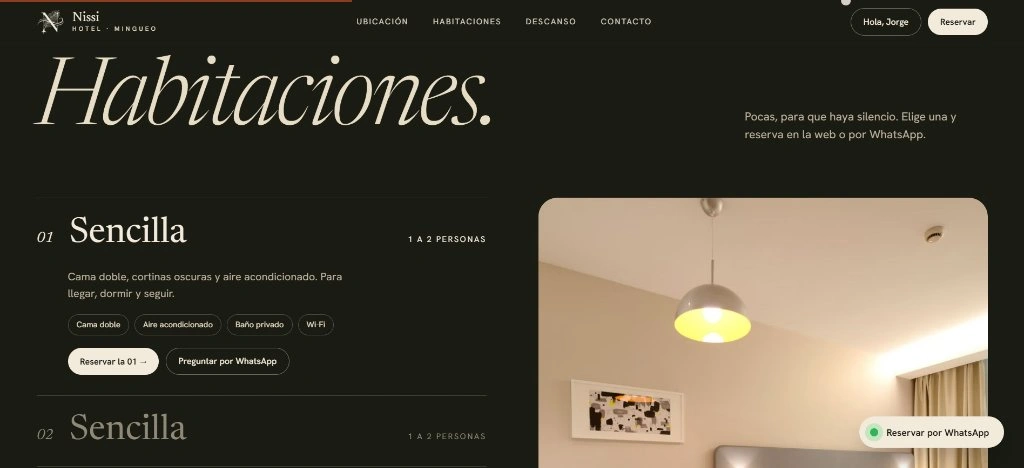
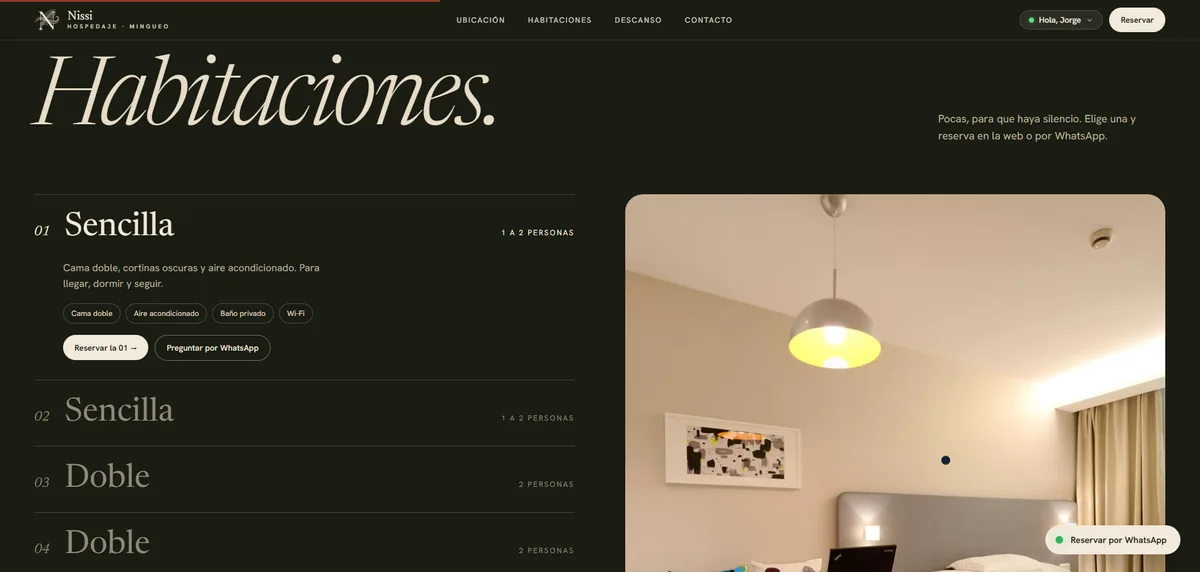
actualizacion de proyecto hotel nissi a hospedaje nissi

diff --git a/logica/Datosportafolio.js b/logica/Datosportafolio.js
@@ -7,7 +7,7 @@
     Habilidades: { Texto: 'habilidades', Clase: 'Palabragigante Tinta', Tamano: 'min(12.4vw, 190px)' },
     Experiencia: { Texto: 'experiencia', Clase: 'Palabragigante Tinta', Tamano: 'min(12.4vw, 190px)' },
     Conoceme: { Texto: 'conóceme', Clase: 'Palabragigante Tinta', Tamano: 'min(14.4vw, 220px)' },
-    Nissi: { Texto: 'Hotel Nissi', Clase: 'Palabragigante Tinta', Tamano: 'min(14.8vw, 218px)' },
+    Nissi: { Texto: 'Nissi', Clase: 'Palabragigante Tinta', Tamano: 'min(21.2vw, 240px)' },
     Mitecho: { Texto: 'MiTecho', Clase: 'Palabragigante Tinta', Tamano: 'min(17.5vw, 228px)' },
     Sonica: { Texto: 'Sónica', Clase: 'Palabragigante Tinta', Tamano: 'min(21.2vw, 240px)' },
     Neon: { Texto: 'Neon Jump', Clase: 'Palabragigante Tinta', Tamano: 'min(14.1vw, 216px)' },
@@ -16,7 +16,7 @@
   };
 
   var Tarjetas = [
-    { Proyecto: 'Nissi', Titulo: 'Hotel Nissi', Tipo: 'Sitio web y Cotizador', Imagen: 'imagenes/icono-nissi.webp' },
+    { Proyecto: 'Nissi', Titulo: 'Hospedaje Nissi', Tipo: 'Sitio web y Cotizador', Imagen: 'imagenes/icono-nissi.webp' },
     { Proyecto: 'Mitecho', Titulo: 'MiTecho', Tipo: 'App Financiera de Vivienda', Imagen: 'imagenes/icono-mitecho.webp' },
     { Proyecto: 'Neon', Titulo: 'Neon Jump', Tipo: 'Videojuego Móvil', Imagen: 'imagenes/icono-neon.webp' },
     { Proyecto: 'Sonica', Titulo: 'Sónica', Tipo: 'Podcasts con Inteligencia Artificial', Imagen: 'imagenes/icono-sonica.webp' },
@@ -61,17 +61,18 @@
   var Detalles = {
     Nissi: {
       Id: 'Nissi',
-      Titulo: 'Hotel Nissi',
-      Tamano: 'min(14.8vw, 218px)',
+      Titulo: 'Nissi',
+      Antetitulo: 'Hospedaje',
+      Tamano: 'min(21.2vw, 240px)',
       Idtitulo: 'Titulonissi',
       Esimagen: true,
       Imagen: 'imagenes/icono-nissi.webp',
-      Alticono: 'Ícono de Hotel Nissi',
+      Alticono: 'Ícono de Hospedaje Nissi',
       Dato: 'Web y Gestión Hotelera · La Guajira',
-      Subtitulo: 'Sitio web oficial y sistema de reservas del Hotel Nissi en Mingueo, La Guajira',
-      Etiquetapuntos: 'Cómo funciona y tecnologías de Hotel Nissi',
+      Subtitulo: 'Sitio web oficial y sistema de reservas del Hospedaje Nissi en Mingueo, La Guajira',
+      Etiquetapuntos: 'Cómo funciona y tecnologías de Hospedaje Nissi',
       Puntos: [
-        { Num: '·', Texto: 'Construí la interfaz con JavaScript moderno y estilos visuales adaptables a cualquier pantalla, integrando etiquetas estructuradas de Schema para que buscadores como Google muestren el hotel en los primeros resultados.' },
+        { Num: '·', Texto: 'Construí la interfaz con JavaScript moderno y estilos visuales adaptables a cualquier pantalla, integrando etiquetas estructuradas de Schema para que buscadores como Google muestren el hospedaje en los primeros resultados.' },
         { Num: '·', Texto: 'Conecté la web con la API oficial de WhatsApp para confirmar solicitudes al instante y sumé la inteligencia artificial de Gemini para responder dudas frecuentes de los viajeros de forma automática.' },
         { Num: '·', Texto: 'Creé un servidor ligero con Google Apps Script que usa Google Sheets como base de datos en vivo, permitiendo al recepcionista ingresar con una clave segura, bloquear habitaciones ocupadas y enviar un balance diario al correo del administrador.' }
       ],
@@ -80,10 +81,10 @@
         { Clave: 'Stack', Valor: 'JavaScript · Apps Script · Google Sheets · Gemini AI · WhatsApp API' },
         { Clave: 'Alcance', Valor: 'Cotizador en vivo y panel de recepción' }
       ],
-      Accion: { Url: 'https://hotel-nissi-mingueo.web.app', Texto: 'Ir a Hotel Nissi' },
+      Accion: { Url: 'https://hospedaje-nissi-mingueo.web.app/index.html', Texto: 'Ir a Hospedaje Nissi' },
       Dispositivo: 'portal',
       Capturas: [
-        { Src: 'imagenes/nissi-1.webp', Alt: 'Portada principal de Hotel Nissi con cotizador de noches' },
+        { Src: 'imagenes/nissi-1.webp', Alt: 'Portada principal de Hospedaje Nissi con cotizador de noches' },
         { Src: 'imagenes/nissi-2.webp', Alt: 'Catálogo y detalle de habitaciones' },
         { Src: 'imagenes/nissi-3.webp', Alt: 'Ubicación sobre la Troncal del Caribe' },
         { Src: 'imagenes/nissi-4.webp', Alt: 'Infraestructura y servicios de descanso' },
@@ -126,7 +127,7 @@
         { Src: 'imagenes/mitecho-5.webp', Alt: 'Plan de liberación de cupo crediticio apagando deudas en MiTecho' },
         { Src: 'imagenes/mitecho-6.webp', Alt: 'Catálogo de proyectos inmobiliarios aliados por municipio en MiTecho' }
       ],
-      Anterior: { Proyecto: 'Nissi', Nombre: 'Hotel Nissi' },
+      Anterior: { Proyecto: 'Nissi', Nombre: 'Hospedaje Nissi' },
       Siguiente: { Proyecto: 'Neon', Nombre: 'Neon Jump' }
     },
     Neon: {
@@ -252,7 +253,7 @@
         { Src: 'imagenes/Khronosinicio.webp', Alt: 'Pantalla de inicio de Khronos con el lema Domina tu tiempo, conquista tus proyectos, una figura frente a un reloj de arena iluminado y el formulario de acceso' }
       ],
       Anterior: { Proyecto: 'Moderador', Nombre: 'Sónica Moderador' },
-      Siguiente: { Proyecto: 'Nissi', Nombre: 'Hotel Nissi' }
+      Siguiente: { Proyecto: 'Nissi', Nombre: 'Hospedaje Nissi' }
     }
   };
 

diff --git a/index.html b/index.html
@@ -82,7 +82,7 @@
 <svg class="Esferasvg" viewBox="0 0 400 400" focusable="false"><defs><path id="Rielesfera" d="M200,360 A160,160 0 1,1 200,40 A160,160 0 1,1 200,360"></path></defs><g class="Esferagiro"><circle class="Marcasmenores" cx="200" cy="200" r="192" pathLength="360" transform="rotate(-90 200 200)"></circle><circle class="Marcasmayores" cx="200" cy="200" r="190" pathLength="360" transform="rotate(-90 200 200)"></circle><circle class="Esferaaro" cx="200" cy="200" r="136"></circle></g><text class="Esferatitulo"><textPath href="#Rielesfera" startOffset="50%" text-anchor="middle">Proyectos</textPath></text><path class="Esferaaguja" d="M200,1V21"></path></svg>
 </div>
 <ul class="Carteles" aria-label="Proyectos" aria-roledescription="rueda de proyectos" data-ref="Cartel.Rueda">
-<li data-at-class="[[Cartel.Uno.Clase]]"><button class="Cartelboton" type="button" data-ref="Cartel.Uno.Fijar" data-ev-click="Cartel.Uno.Pulsar" data-ev-keydown="Cartel.Teclas" data-ev-pointermove="Cartel.Uno.Inclinar" data-ev-pointerleave="Cartel.Uno.Reposo" data-at-aria-label="[[Cartel.Uno.Etiqueta]]"><img class="Cartelimagen" src="imagenes/icono-nissi.webp" alt="" width="256" height="256" draggable="false"><span class="Cartelpie"><span class="Carteltitulo">Hotel Nissi</span></span></button></li>
+<li data-at-class="[[Cartel.Uno.Clase]]"><button class="Cartelboton" type="button" data-ref="Cartel.Uno.Fijar" data-ev-click="Cartel.Uno.Pulsar" data-ev-keydown="Cartel.Teclas" data-ev-pointermove="Cartel.Uno.Inclinar" data-ev-pointerleave="Cartel.Uno.Reposo" data-at-aria-label="[[Cartel.Uno.Etiqueta]]"><img class="Cartelimagen" src="imagenes/icono-nissi.webp" alt="" width="256" height="256" draggable="false"><span class="Cartelpie"><span class="Carteltitulo Condoble"><small>Hospedaje</small>Nissi</span></span></button></li>
 <li data-at-class="[[Cartel.Dos.Clase]]"><button class="Cartelboton" type="button" data-ref="Cartel.Dos.Fijar" data-ev-click="Cartel.Dos.Pulsar" data-ev-keydown="Cartel.Teclas" data-ev-pointermove="Cartel.Dos.Inclinar" data-ev-pointerleave="Cartel.Dos.Reposo" data-at-aria-label="[[Cartel.Dos.Etiqueta]]"><img class="Cartelimagen" src="imagenes/icono-mitecho.webp" alt="" width="256" height="256" draggable="false"><span class="Cartelpie"><span class="Carteltitulo">MiTecho</span></span></button></li>
 <li data-at-class="[[Cartel.Tres.Clase]]"><button class="Cartelboton" type="button" data-ref="Cartel.Tres.Fijar" data-ev-click="Cartel.Tres.Pulsar" data-ev-keydown="Cartel.Teclas" data-ev-pointermove="Cartel.Tres.Inclinar" data-ev-pointerleave="Cartel.Tres.Reposo" data-at-aria-label="[[Cartel.Tres.Etiqueta]]"><img class="Cartelimagen" src="imagenes/icono-neon.webp" alt="" width="256" height="256" draggable="false"><span class="Cartelpie"><span class="Carteltitulo">Neon Jump</span></span></button></li>
 <li data-at-class="[[Cartel.Cuatro.Clase]]"><button class="Cartelboton" type="button" data-ref="Cartel.Cuatro.Fijar" data-ev-click="Cartel.Cuatro.Pulsar" data-ev-keydown="Cartel.Teclas" data-ev-pointermove="Cartel.Cuatro.Inclinar" data-ev-pointerleave="Cartel.Cuatro.Reposo" data-at-aria-label="[[Cartel.Cuatro.Etiqueta]]"><img class="Cartelimagen" src="imagenes/icono-sonica.webp" alt="" width="256" height="252" draggable="false"><span class="Cartelpie"><span class="Carteltitulo">Sónica</span></span></button></li>
@@ -243,7 +243,7 @@
 <section data-at-class="[[Clases.Pantalla]]" data-at-style="[[Proyecto.Estilotamano]]" data-at-aria-labelledby="[[Proyecto.Idtitulo]]">
 <div class="Contenedor">
 <div class="Cabeceraproyecto">
-<h2 data-at-id="[[Proyecto.Idtitulo]]" class="Titulogigante"><span class="Ocultovisual" data-tx="Proyecto.Prefijooculto"></span><span class="Palabragigante Tinta" data-ref="Proyecto.Fijartitulo" data-tx="Proyecto.Titulo"></span></h2>
+<h2 data-at-id="[[Proyecto.Idtitulo]]" class="Titulogigante"><span class="Ocultovisual" data-tx="Proyecto.Prefijooculto"></span><span class="Antetitulo" data-tx="Proyecto.Antetitulo"></span> <span class="Palabragigante Tinta" data-ref="Proyecto.Fijartitulo" data-tx="Proyecto.Titulo"></span></h2>
 <div class="Eco" aria-hidden="true"><span data-tx="Proyecto.Titulo"></span><span data-tx="Proyecto.Titulo"></span></div>
 <template data-si="Proyecto.Esimagen"><img class="Iconoproyecto Destinovuelo" data-ref="Proyecto.Fijaricono" data-at-src="[[Proyecto.Imagen]]" data-at-alt="[[Proyecto.Alticono]]" width="256" height="256"></template>
 <template data-si="Proyecto.Esmoderador"><span class="Iconoproyecto Iconomoderador Destinovuelo" data-ref="Proyecto.Fijaricono" aria-hidden="true"><span class="Marcamoderador">Sónica</span><span class="Submoderador">MODERACIÓN</span></span></template>

diff --git a/estilos/Proyectos.css b/estilos/Proyectos.css
@@ -192,3 +192,39 @@
 @media (prefers-reduced-motion: reduce) {
   .Puntoproduccion { animation: none; }
 }
+
+/* Antetítulo sobre la palabra gigante: deja el nombre completo sin que el ícono lo tape */
+.Antetitulo {
+  position: absolute;
+  left: 50%;
+  top: calc(var(--Tamano, 0px) * var(--Escalatitulo, 1) * 0.17 - 4px);
+  display: flex;
+  align-items: center;
+  gap: 14px;
+  font-family: var(--Tipomono);
+  font-size: clamp(12px, 1.25vw, 17px);
+  letter-spacing: 0.42em;
+  text-transform: uppercase;
+  color: var(--Coloracento);
+  white-space: nowrap;
+  transform: translate(-50%, -100%);
+  transition: opacity 420ms ease-out 180ms;
+}
+
+.Antetitulo::before,
+.Antetitulo::after {
+  content: '';
+  width: clamp(24px, 4vw, 56px);
+  height: 1px;
+  background: currentColor;
+  opacity: 0.5;
+}
+
+.Antetitulo:empty { display: none; }
+.Llegando .Antetitulo,
+.Saliendo .Antetitulo { opacity: 0; transition-delay: 0ms; }
+
+/* Tarjeta de la rueda con el nombre en dos niveles */
+.Cartelpie:has(.Condoble) { border-radius: 10px; padding: 4px 10px 5px; }
+.Condoble { display: flex; flex-direction: column; align-items: center; line-height: 1; }
+.Condoble small { margin-bottom: 2px; font-family: var(--Tipomono); font-size: 6.5px; font-weight: 500; letter-spacing: 0.24em; text-transform: uppercase; opacity: 0.75; }

diff --git a/guion.js b/guion.js
@@ -218,6 +218,7 @@
           Id: Detalle.Id,
           Titulo: Detalle.Titulo,
           Prefijooculto: Detalle.Prefijo || '',
+          Antetitulo: Detalle.Antetitulo || '',
           Estilotamano: Validaciones.Validartamano(Detalle.Tamano),
           Idtitulo: Detalle.Idtitulo,
           Esimagen: !!Detalle.Esimagen,

diff --git a/estilos/Portatil.css b/estilos/Portatil.css
@@ -2,7 +2,7 @@
    Estilos del Computador Portátil 3D Interactivo
    ========================================================================== */
 
-/* Portátil de Sónica Moderador y Hotel Nissi */
+/* Portátil de Sónica Moderador y Hospedaje Nissi */
 .Portatil {
   width: min(460px, 100%);
   margin: 0 auto;
